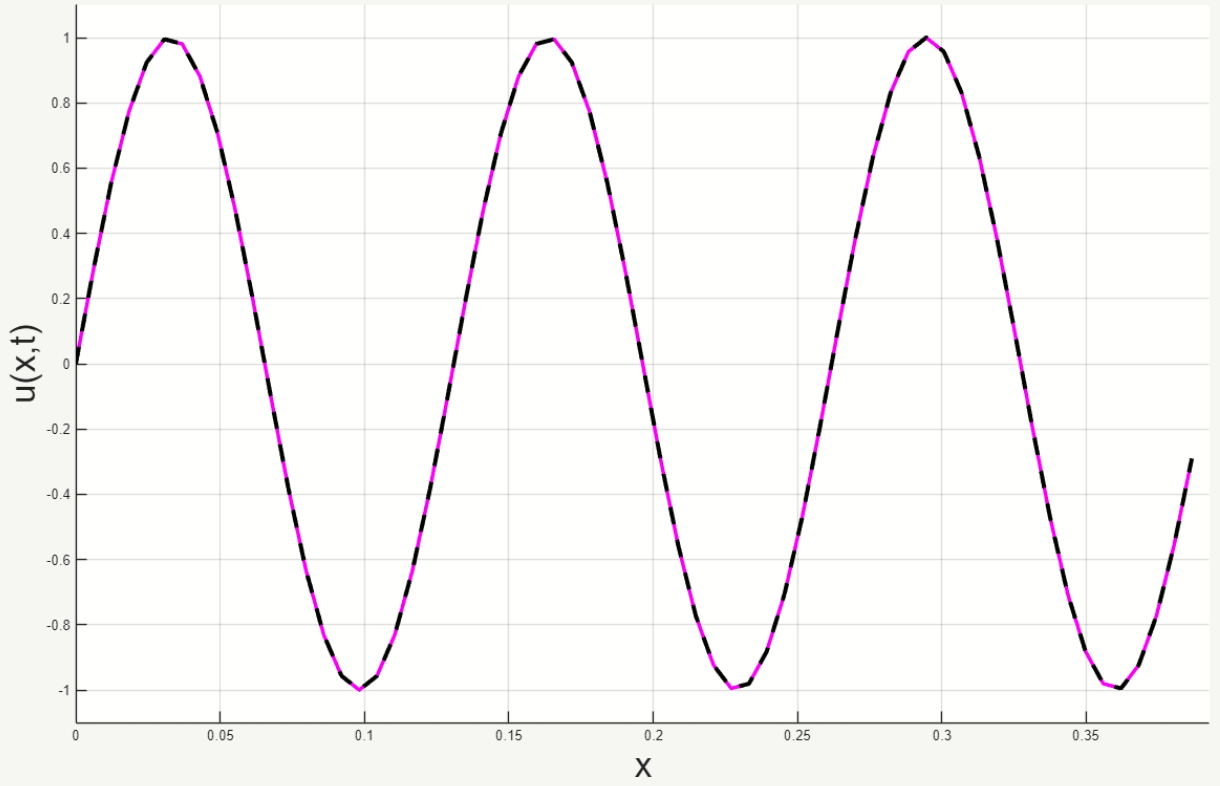
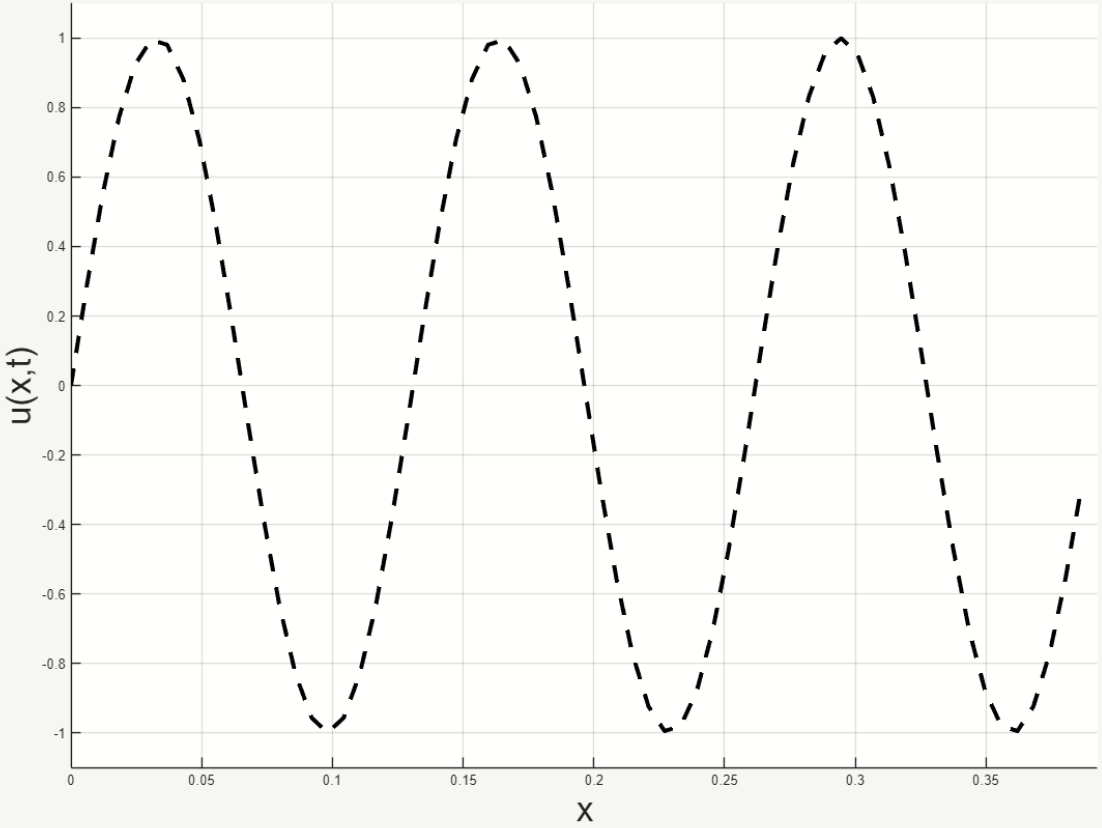
.

diff --git a/main.tex b/main.tex
@@ -1268,9 +1268,9 @@ First, we will test how one wave in this form
 \end{equation}
 behaves. And where $\omega = c \cdot k $, $k = 48$, $N = 64$ and $L = \pi/8$.
 
-The figures of time evolution can be seen in \ref{fig_one_wave}. These numerical experiments clearly show that the FD is systematically slower than the FFT. And there is no visible difference between the analytic solution and the FFT solution.
+The time evolution can be seen in figures below. These numerical experiments clearly show that the FD is systematically slower than the FFT. And there is no visible difference between the analytic solution and the FFT solution.
 
-We can see on figures \ref{fig_one_wave}, that FD separated from the exact solution after $t \approx 18$ s and Numerov separated after $t \approx 4 \, 000$ s. We expected this, because Numerov is higher order method than FD.
+We can see on figures \ref{fig_one_wave_FD}, that FD separated from the exact solution after $t \approx 10$ s and Numerov separated after $t \approx 4 \, 000$ s. We expected this, because Numerov is higher order method than FD.
 
 Just to make sure, we ran a simulation with only DFT and the exact solution to check whether, after some time, they also dont separate. This simulation, which ran for one year, is shown in the figure \ref{fig_one_periodic_infinite}.
 
@@ -1278,7 +1278,7 @@ Just to make sure, we ran a simulation with only DFT and the exact solution to c
 \begin{figure}[H]
     \centering
     \includegraphics[width=0.8\linewidth]{figures/pic_2.png}
-    \caption{All of the waves at $t \approx 0$ s. }
+    \caption{Exact solution at $t \approx 0$ s. }
     \label{}
 \end{figure}
 
@@ -1287,7 +1287,7 @@ Just to make sure, we ran a simulation with only DFT and the exact solution to c
     \centering
     \includegraphics[width=0.8\linewidth]{figures/pic_one_periodic_FD.png}
     \caption{FD (blue) method separates from exact solution (black) after $t \approx 10$ s. }
-    \label{}
+    \label{fig_one_wave_FD}
 \end{figure}
 
 
@@ -1326,8 +1326,8 @@ We can see on figures below, that using FD the wave package separated after $t \
 
 \begin{figure}[H]
     \centering
-    \includegraphics[width=0.8\linewidth]{figures/pic_14.png}
-    \caption{All of the waves at $t \approx 0$ s. }
+    \includegraphics[width=0.8\linewidth]{figures/pic_two_periodic_same_initial.png}
+    \caption{Exact solution at $t \approx 0$ s. }
     \label{fig_two_same_all}
 \end{figure}
 
@@ -1346,6 +1346,12 @@ We can see on figures below, that using FD the wave package separated after $t \
     \label{}
 \end{figure}
 
+\begin{figure}[H]
+    \centering
+    \includegraphics[width=0.8\linewidth]{figures/pic_two_periodic_same_DST.png}
+    \caption{DST (magenta) method never separates from exact solution (black), $t \approx 45 \, 000$ s. }
+    \label{}
+\end{figure}
 
 And again, the simulation with DFT (magenta) and the exact solution (black), which ran for $t \approx 1$ year, never separated (figure is identical to \ref{fig_two_same_all}).
 
@@ -1366,8 +1372,8 @@ Again on figures below, using FD the wave package separated after $t \approx 24$
 
 \begin{figure}[H]
     \centering
-    \includegraphics[width=0.8\linewidth]{figures/pic_17.png}
-    \caption{All of the waves at $t \approx 0$ s. }
+    \includegraphics[width=0.79\linewidth]{figures/pic_two_periodic_opposite_initial.png}
+    \caption{Exact solution at $t \approx 0$ s. }
     \label{fig_two_opposite_all}
 \end{figure}
 
@@ -1387,6 +1393,13 @@ Again on figures below, using FD the wave package separated after $t \approx 24$
 \end{figure}
 
 
+\begin{figure}[H]
+    \centering
+    \includegraphics[width=0.8\linewidth]{figures/pic_two_periodic_opposite_DST.png}
+    \caption{DST (magenta) method never separates from exact solution (black) $t \approx 45 \, 000$ s. }
+    \label{}
+\end{figure}
+
 And again, the simulation with DFT (magenta) and the exact solution (black), which ran for $t \approx 1$ year, never separated (figure would be identical to \ref{fig_two_opposite_all}).
 
 
@@ -1401,9 +1414,12 @@ In this section, we can apply all of the methods from the chapter about eigenval
 
 \subsection{One wave}
 \noindent
-First we will focus on wave in the form
+First we will focus on wave on the interval $[0, \pi]$ in the initial form at time $t = 0$ s
 \begin{equation}
-    u(x,t) = \sin{(k x - \omega t)} \, 
+    \begin{split}
+    u(x,t) & = \sin{(k x - \omega t)} \quad \text{on} \; [0, \, \pi/2] \, , \\
+    u(x,t) & = 0 \quad \text{on} \; [\pi/2, \, \pi] \, .
+    \end{split}
 \end{equation}
 And where $\omega = c \cdot k $,
 
@@ -1462,7 +1478,7 @@ All is on interval $L = \pi$
     \label{}
 \end{figure}
 
-We can see that DST is again the best. 
+We can see that DST is, again, the best. 
 
 
 \subsection{Two waves - same direction}
@@ -1475,6 +1491,61 @@ We can see that DST is again the best.
 where $\omega_k = c \cdot k $, $\omega_l = c \cdot l $,
 
 
+
+\begin{figure}[H]
+    \centering
+    \includegraphics[width=0.8\linewidth]{figures/pic_two_same_dirichlet_initial.png}
+    \caption{Exact solution at $t \approx 0$ s.  $N = 100$ }
+    \label{}
+\end{figure}
+
+
+\begin{figure}[H]
+    \centering
+    \includegraphics[width=0.8\linewidth]{figures/pic_two_same_dirichlet_FD.png}
+    \caption{FD (blue) method separates from exact solution (black) after $t \approx 14$ s.  $N = 100$ }
+    \label{}
+\end{figure}
+
+
+\begin{figure}[H]
+    \centering
+    \includegraphics[width=0.8\linewidth]{figures/pic_two_same_dirichlet_Numerov.png}
+    \caption{Numerov (red) method separates from exact solution (black) after $t \approx 460$ s.  $N = 100$ }
+    \label{}
+\end{figure}
+
+
+\begin{figure}[H]
+    \centering
+    \includegraphics[width=0.8\linewidth]{figures/pic_two_same_dirichlet_CDM.png}
+    \caption{Simulation with CDM (brown) and exact solution (black) that ran for $t \approx 446 \, 000$ s. $N = 100$}
+    \label{}
+\end{figure}
+
+\begin{figure}[H]
+    \centering
+    \includegraphics[width=0.8\linewidth]{figures/pic_two_same_dirichlet_MBCDM.png}
+    \caption{Simulation with MBCDM (orange) and exact solution (black) that ran for $t \approx 466 \, 000$ s. $N = 100$}
+    \label{}
+\end{figure}
+
+\begin{figure}[H]
+    \centering
+    \includegraphics[width=0.8\linewidth]{figures/pic_two_same_dirichlet_LGCC.png}
+    \caption{Simulation with LGCC (green) and exact solution (black) that ran for $t \approx 466 \, 000$ s. $N = 100$}
+    \label{}
+\end{figure}
+
+\begin{figure}[H]
+    \centering
+    \includegraphics[width=0.8\linewidth]{figures/pic_two_same_dirichlet_DST.png}
+    \caption{Simulation with DST (magenta) and exact solution (black) that ran for $t \approx 466 \, 000$ s. $N = 100$}
+    \label{}
+\end{figure}
+
+We can see that DST is, again, the best.
+
 \subsection{Two waves - opposite direction}
 \noindent
 
@@ -1482,6 +1553,65 @@ where $\omega_k = c \cdot k $, $\omega_l = c \cdot l $,
     u(x,t) = \sin{(k x - \omega_k t)} + \sin{(l x + \omega_l t)} \, ,
 \end{equation}
 where $\omega_k = c \cdot k $, $\omega_l = c \cdot l $,
+
+\begin{figure}[H]
+    \centering
+    \includegraphics[width=0.8\linewidth]{figures/pic_two_opposite_dirichlet_initial.png}
+    \caption{Exact solution at $t \approx 0$ s.  $N = 100$ }
+    \label{}
+\end{figure}
+
+
+\begin{figure}[H]
+    \centering
+    \includegraphics[width=0.8\linewidth]{figures/pic_two_opposite_dirichlet_FD.png}
+    \caption{FD (blue) method separates from exact solution (black) after $t \approx 13$ s.  $N = 100$ }
+    \label{}
+\end{figure}
+
+
+\begin{figure}[H]
+    \centering
+    \includegraphics[width=0.8\linewidth]{figures/pic_two_opposite_dirichlet_Numerov.png}
+    \caption{Numerov (red) method separates from exact solution (black) after $t \approx 470$ s.  $N = 100$ }
+    \label{}
+\end{figure}
+
+
+\begin{figure}[H]
+    \centering
+    \includegraphics[width=0.8\linewidth]{figures/pic_two_opposite_dirichlet_CDM.png}
+    \caption{Simulation with CDM (brown) and exact solution (black) that ran for $t \approx 470 \, 000$ s. $N = 100$}
+    \label{}
+\end{figure}
+
+\begin{figure}[H]
+    \centering
+    \includegraphics[width=0.8\linewidth]{figures/pic_two_opposite_dirichlet_MBCDM.png}
+    \caption{Simulation with MBCDM (orange) and exact solution (black) that ran for $t \approx 470 \, 000$ s. $N = 100$}
+    \label{}
+\end{figure}
+
+\begin{figure}[H]
+    \centering
+    \includegraphics[width=0.8\linewidth]{figures/pic_two_opposite_dirichlet_LGCC.png}
+    \caption{Simulation with LGCC (green) and exact solution (black) that ran for $t \approx 470 \, 000$ s. $N = 100$}
+    \label{}
+\end{figure}
+
+\begin{figure}[H]
+    \centering
+    \includegraphics[width=0.8\linewidth]{figures/pic_two_opposite_dirichlet_DST.png}
+    \caption{Simulation with DST (magenta) and exact solution (black) that ran for $t \approx 470 \, 000$ s. $N = 100$}
+    \label{}
+\end{figure}
+
+We can see that DST is, again, the best.
+
+
+
+
+
 
 \chapter{Wave propagation in metamaterials}
 \noindent
